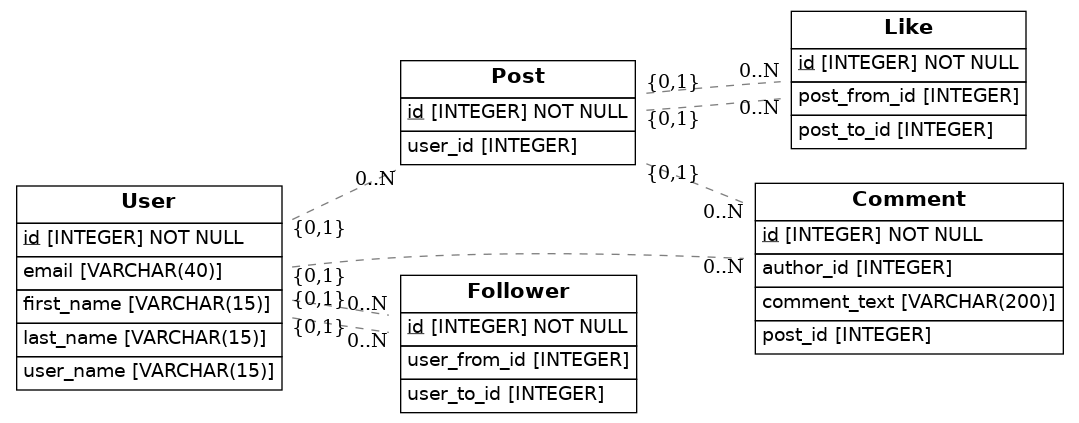
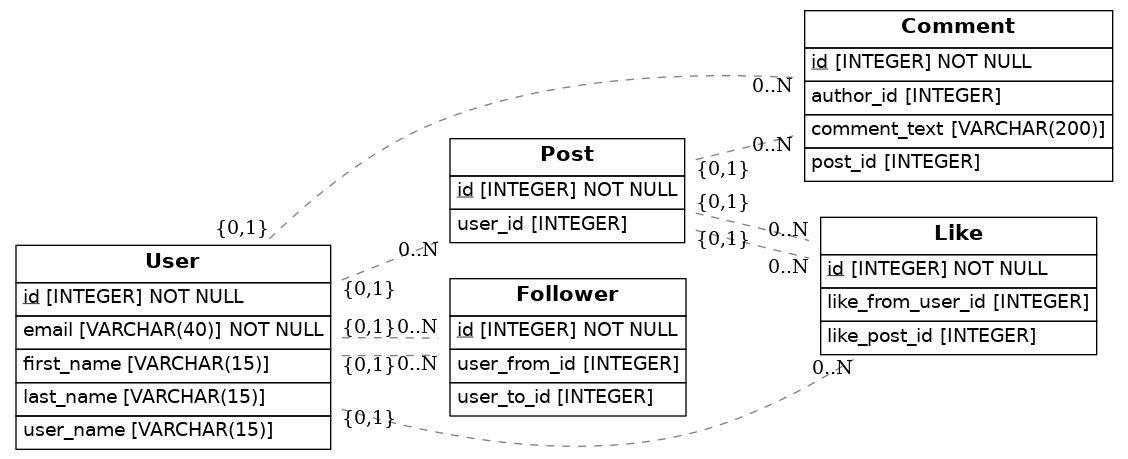
intento corregir errores en class Like

Changed region(s): [[0.3364, 0.0, 1.0, 0.8605], [0.0, 0.4303, 0.6117, 0.9835], [0.3364, 0.3995, 0.367, 0.461]]

diff --git a/src/models.py b/src/models.py
@@ -41,11 +41,10 @@ class Follower(Base):
 class Like(Base):
     __tablename__='Like'
     id = Column (Integer, primary_key=True)
-    post_from_id = Column(Integer, ForeignKey('Post.id'))
-    post_to_id = Column(Integer, ForeignKey('Post.id'))
+    like_post_id = Column(Integer, ForeignKey('Post.id'))
+    like_from_user_id = Column(Integer, ForeignKey('User.id'), ForeignKey('Post.id'))
     post = relationship(Post)
-
-
+    user = relationship(User)
 
 
 
